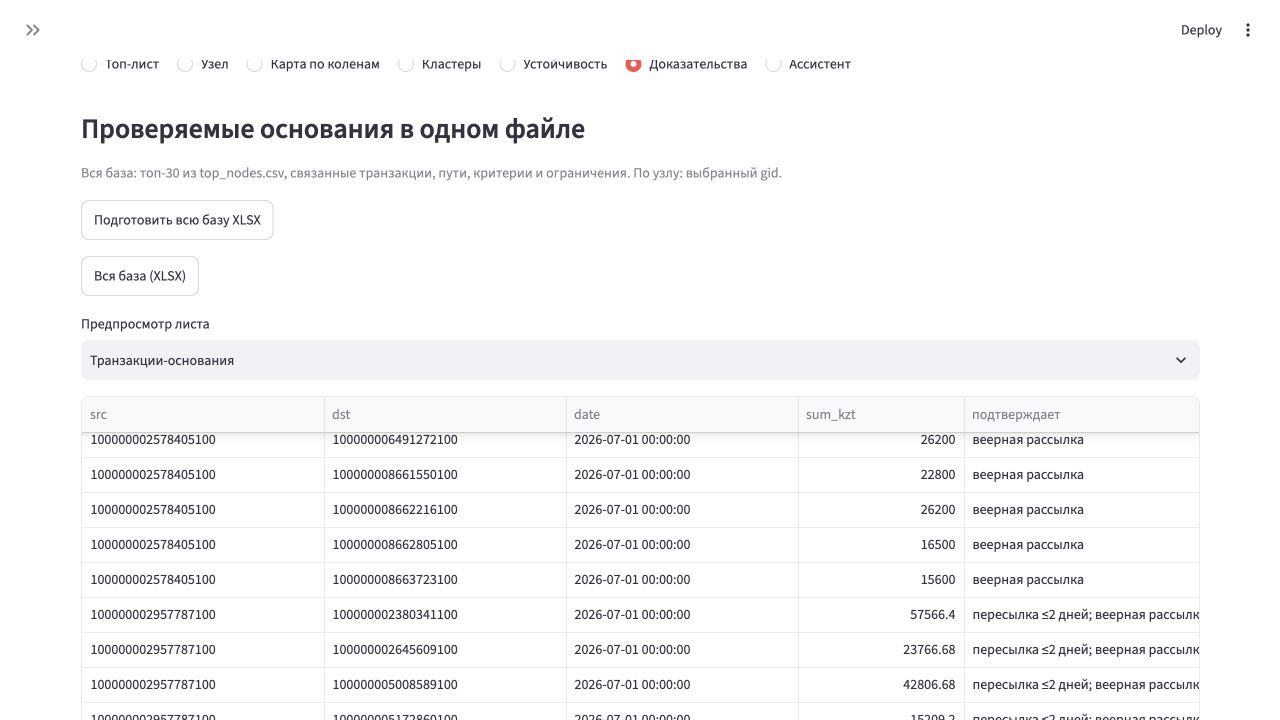
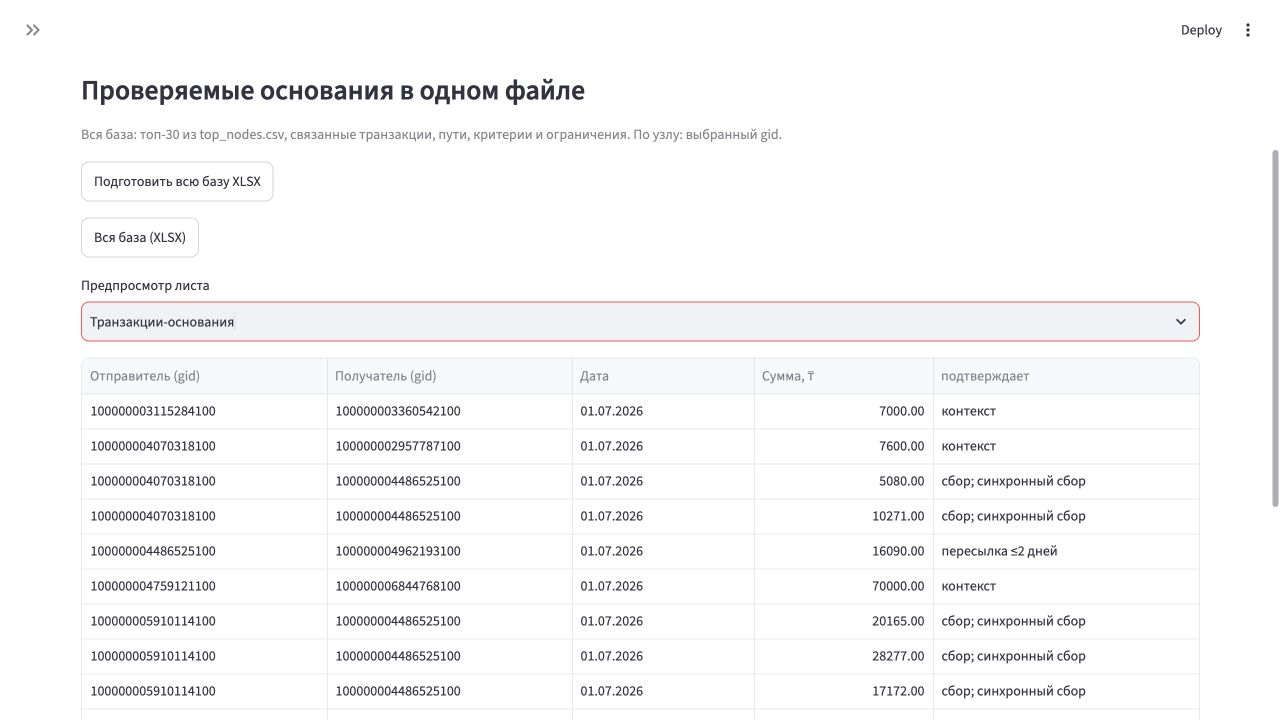
fix(integration): align B delivery with A5 outputs [codex]

diff --git a/app.py b/app.py
@@ -195,7 +195,8 @@ def main():
             st.info("Нет узлов в текущем фильтре.")
         else:
             network = st.checkbox("Сетевая раскладка", disabled=not bool(bundle.graph.get("nodes")))
-            fig, total_edges = layer_figure(filtered, edges, bundle.graph, st.session_state.gid, network)
+            highlighted = st.session_state.gid if st.query_params.get("gid") else None
+            fig, total_edges = layer_figure(filtered, edges, bundle.graph, highlighted, network)
             event = st.plotly_chart(fig, use_container_width=True, on_select="rerun", key="layers")
             st.caption(f"Показано до 400 из {total_edges} рёбер по сумме; стрелки — у топ-100. Выбор точки открывает доступ к карточке.")
             if event.selection.points:
@@ -252,7 +253,10 @@ def main():
                 for column in ("role", "role_alt", "роль"):
                     if column in preview:
                         preview[column] = preview[column].map(lambda value: LABELS.get(value, value))
-                st.dataframe(preview, hide_index=True, use_container_width=True)
+                st.dataframe(preview, hide_index=True, use_container_width=True,
+                             column_config={"date": st.column_config.DateColumn("Дата", format="DD.MM.YYYY"),
+                                            "src": "Отправитель (gid)", "dst": "Получатель (gid)",
+                                            "sum_kzt": st.column_config.NumberColumn("Сумма, ₸", format="%.2f")})
             gid = st.session_state.gid
             if st.button(f"Подготовить XLSX узла {gid}"):
                 try:

diff --git a/docs/STATUS_B.md b/docs/STATUS_B.md
@@ -1,6 +1,8 @@
 # Статус участника B
 
-Ветка: `b-ui`. База A: `a-core` / A3 `d1d07f4`. В main пишет A после финальной синхронизации.
+Ветка: `b-ui`. База A: `a-core` / A5 `02621e5`. В main пишет A после финальной синхронизации.
+
+B-ready-for-final
 
 | Задача | Статус | Коммит |
 |---|---|---|
@@ -9,20 +11,23 @@
 | B2 — карта и два слоя | готово | 9f04060 |
 | B3 — XLSX | готово | 8888258 |
 | B4 — кластеры, устойчивость, AI | готово | bb08339 |
-| B5 — README, схема, скриншоты | готово | текущий коммит B5; обновление чисел после merge A5 |
+| B5 — README, схема, скриншоты | готово | f5dd795; числа и скриншоты обновлены после merge A5 |
 | B6 — чистая машина после финала A | не начато | — |
 
 ## Готово для A
 
-- B0–B5 готовы; 32 теста прошли. Все вкладки проверены без API-ключа; Responses API — фейковым клиентом, без платных запросов.
+- B0–B5 готовы. Полный pytest: 49 passed (32 B + 17 ядра). graf.check: CHECK OK, 2248 узлов, 107 кластеров, топ-30; все 12 проверок аудита успешны.
+- Все вкладки проверены без API-ключа; Responses API — фейковым клиентом, без платных запросов. Streamlit smoke: 15 секунд, health 200, сервер проверки остановлен.
 - graf.evidence_xlsx.build_evidence готов. Все 6 листов, API записи файла и байтов выбранного узла проверены; gid — текст Excel.
 - Все gid в браузерных форматах передаются строками, исходные данные/выгрузки A не меняются.
 
 ## Запросы к A
 
 - Готовность chrono_reach распознаётся и с сигнатурой функции. Ползунок 1–31 подключён по статусу A.
-- Новые A4/A5 опубликованы; обновление README и проверка свежих выгрузок — следующий шаг после фиксации B5.
+- A4/A5 влиты; README заполнен реальными результатами и примерами из node_review.md. Скриншоты обновлены на out/ A5. Ни один файл out/ не пересчитывался B.
 - Исправлен Windows-тест пути (Path.name), временный статус пишется в UTF-8. B-тесты автоматически создают out_stub, если его нет.
+- Перед финалом повторить pytest на Windows: исправления проверены на macOS, отдельного Windows-окружения у B нет.
+- После публикации финала нужна отметка «ФИНАЛ в main» для B6. Готовность B0–B5 уже есть; B6 не является условием начала финала, поскольку проверяет именно финальный main.
 
 ## Решения, которые я принял сам
 
@@ -30,7 +35,7 @@
   папку out можно явно выбрать для read-only проверки.
 - Не ждать необязательных колонок: отображать «нет данных», а не придумывать признаки.
 - README содержит запуск, формулы, ограничения и схему. tools/update_readme_results.py обновляет цифры только при готовом A4; до него плейсхолдеры.
-- Скриншоты сделаны на реальном A3. Неполные дополнительные CSV дают сообщение, а не падение всего приложения.
+- Скриншоты сделаны на реальном A5. Неполные дополнительные CSV дают сообщение, а не падение всего приложения.
 - Git HTTPS не авторизован; подключённый GitHub API позволяет публиковать b-ui без изменения main.
   Объекты Git при синхронизации проверяются по SHA; опубликованная история не переписывается.
 

diff --git a/docs/screenshots/README.md b/docs/screenshots/README.md
@@ -1,3 +1,3 @@
 # Снимки интерфейса
 
-Реальные выгрузки out/ из a-core A3 (d1d07f4), без пересчёта B. Роли реальные; приоритет и кластеры временные до A4. map.png — карта по коленам, evidence.png — доказательная база. Снимки не основаны на out_stub.
+Реальные выгрузки out/ из a-core A5 (02621e5), без пересчёта B. Роли, приоритет и кластеры — результаты ядра A. map.png — карта по коленам, evidence.png — доказательная база. Снимки не основаны на out_stub.
